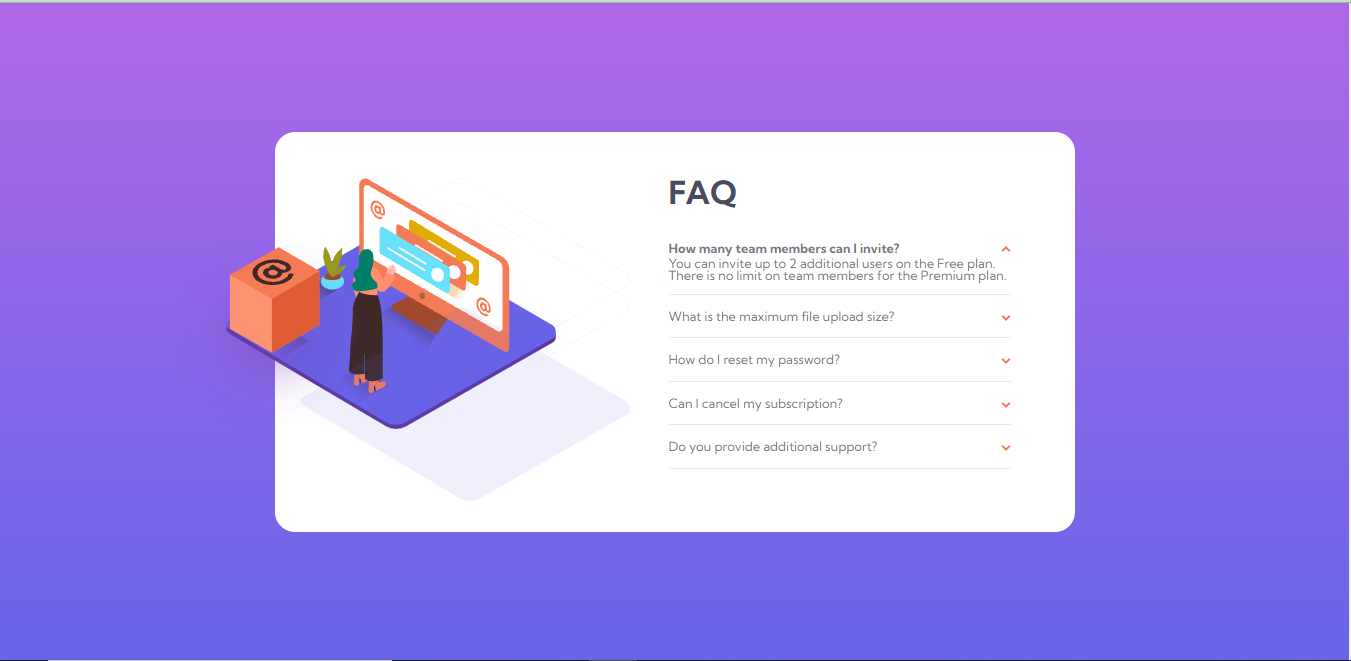
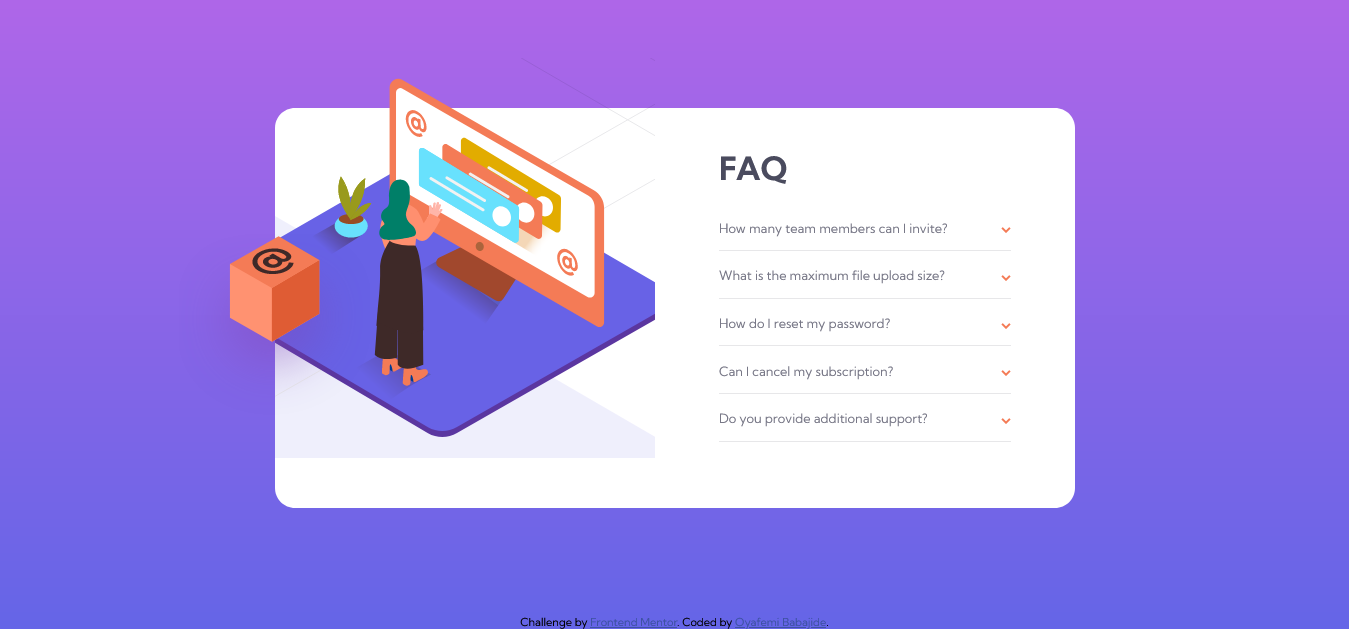
desktop svg backgroud sorted

diff --git a/scss/main.scss b/scss/main.scss
@@ -121,11 +121,13 @@ main {
   }
 
   .accordion-svg {
-    background-image: url(../images/illustration-woman-online-desktop.svg),
-      url(../images/bg-pattern-desktop.svg);
+    background-image: url("../images/illustration-woman-online-desktop.svg"),
+      url("../images/bg-pattern-desktop.svg");
     background-position: -76px, -571px;
     background-size: 472px, 966px;
     background-repeat: no-repeat;
+    height: 100%;
+    width: 100%;
   }
   .entire-card {
     flex-direction: row;
@@ -135,33 +137,11 @@ main {
     margin: 0;
 
     .accordion-svg {
-      // flex-direction: row;
-      // width: 60%;
-      // margin-top: 0;
-
-      // img:nth-of-type(1),
-      // img:nth-of-type(2),
-      // img:nth-of-type(3) {
-      //   display: block;
-      //   width: 100%;
-      // }
-
-      // img:nth-of-type(1) {
-      //   margin-left: -6rem;
-      //   margin-top: 5.2rem;
-      //   z-index: 2;
-      // }
-
-      // img:nth-of-type(2) {
-      //   margin-left: -9rem;
-      //   margin-top: 1rem;
-      //   z-index: 1;
-      // }
-
-      // img:nth-of-type(3) {
-      //   margin-left: -16rem;
-      //   margin-top: 1rem;
-      // }
+      img:nth-of-type(1) {
+        display: block;
+        margin-left: -6rem;
+        margin-top: 11rem;
+      }
 
       img:nth-of-type(4),
       img:nth-of-type(5) {

diff --git a/dist/css/main.css b/dist/css/main.css
@@ -168,10 +168,12 @@ main {
     margin-top: 0;
   }
   .accordion-svg {
-    background-image: url(../images/illustration-woman-online-desktop.svg), url(../images/bg-pattern-desktop.svg);
+    background-image: url("../images/illustration-woman-online-desktop.svg"), url("../images/bg-pattern-desktop.svg");
     background-position: -76px, -571px;
     background-size: 472px, 966px;
     background-repeat: no-repeat;
+    height: 100%;
+    width: 100%;
   }
   .entire-card {
     -webkit-box-orient: horizontal;
@@ -184,6 +186,11 @@ main {
     width: 800px;
     height: 400px;
     margin: 0;
+  }
+  .entire-card .accordion-svg img:nth-of-type(1) {
+    display: block;
+    margin-left: -6rem;
+    margin-top: 11rem;
   }
   .entire-card .accordion-svg img:nth-of-type(4), .entire-card .accordion-svg img:nth-of-type(5),
   .entire-card .accordion-svg img:nth-of-type(5) {

diff --git a/index.html b/index.html
@@ -112,12 +112,17 @@
       </div>
     </main>
 
-    <div class="attribution">
-      Challenge by
-      <a href="https://www.linkedin.com/in/babajide-oyafemi/" target="_blank"
-        >Frontend Mentor</a
-      >. Coded by <a href="#">Oyafemi Babajide</a>.
-    </div>
+    <footer>
+      <div class="attribution">
+        Challenge by
+        <a href="https://www.frontendmentor.io?ref=challenge" target="_blank"
+          >Frontend Mentor</a
+        >. Coded by
+        <a href="https://www.linkedin.com/in/babajide-oyafemi/"
+          >Oyafemi Babajide</a
+        >.
+      </div>
+    </footer>
 
     <script src="./dist/js/main.js"></script>
   </body>

diff --git a/README.md b/README.md
@@ -25,7 +25,7 @@ Users should be able to:
 
 ### Screenshot
 
-![Web version](./images/web.PNG)
+![Web version](./images/web.png)
 ![Mobile version](./images/mobile.PNG)
 
 ### Links
